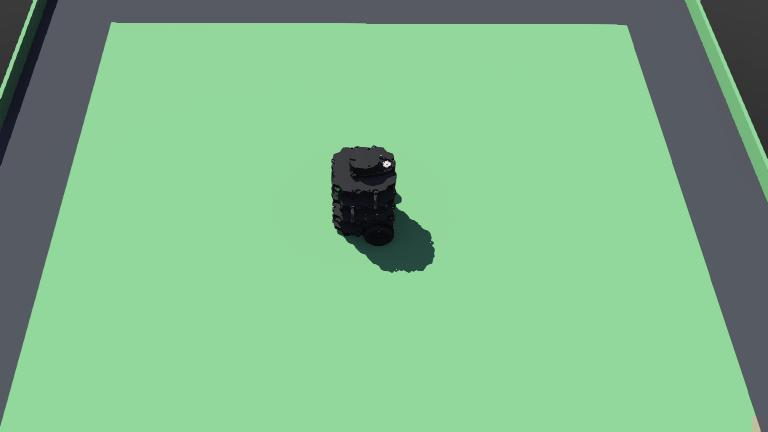
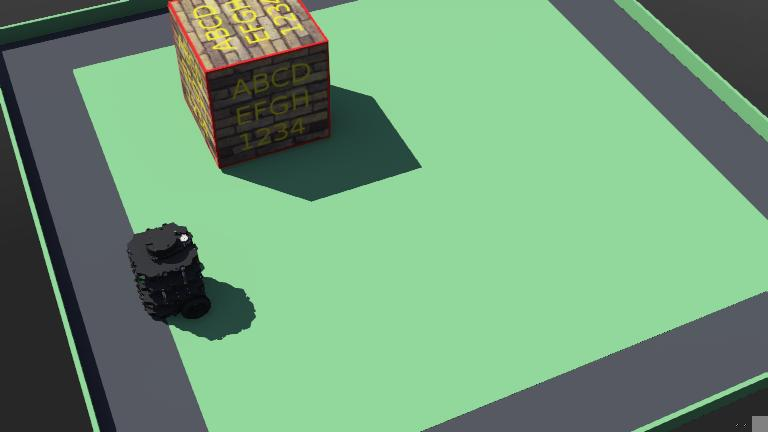
Obstacle avoidance simplistic

diff --git a/webots_project/controllers/main_controller/navigation.py b/webots_project/controllers/main_controller/navigation.py
@@ -16,6 +16,12 @@ class Navigation:
         self.left_motor = robot.getDevice('left wheel motor')
         self.right_motor = robot.getDevice('right wheel motor')
         
+        # Get Lidar
+        self.lidar = robot.getDevice('LDS-01')
+        self.lidar.enable(timestep)
+        self.lidar_max = self.lidar.getMaxRange()
+        self.lidar_width = self.lidar.getHorizontalResolution()
+        
         # Set velocity
         self.left_motor.setPosition(float('inf'))
         self.right_motor.setPosition(float('inf'))
@@ -38,13 +44,28 @@ class Navigation:
         self.theta = 0.0
         
         # Controller values
-        #self.k_rho = 0.2
         self.k_rho = 5.0
         self.k_alpha = 10
         self.k_beta = -0.05
         
         # Motor limits
         self.max_speed = 6.28
+        
+        # Set goal and start position
+        self.goal = (0.5, 0.5)
+        self.start = (0.0, 0.0)
+        
+        # M-line equation
+        xs, ys = self.start
+        xg, yg = self.goal
+        self.a = ys - yg
+        self.b = xg - xs
+        self.c = xs *yg - xg * ys
+        self.mline_tolerance = 0.05 #Parameter for how far from line
+        
+        self.state = "GO_TO_GOAL"
+        self.hit_point = None
+        self.obs_threshold = 0.25
         
         print("init complete")
         
@@ -54,15 +75,19 @@ class Navigation:
         left_angle = self.left_sensor.getValue()
         right_angle = self.right_sensor.getValue()
         
+        # Compute wheel displacements
         dl = (left_angle - self.prev_left_angle) * WHEEL_RADIUS
         dr = (right_angle - self.prev_right_angle) *WHEEL_RADIUS
         
+        # Store current angles for next step
         self.prev_left_angle = left_angle
         self.prev_right_angle = right_angle
                
+        # Compute linear and angular displacement
         dc = (dl + dr) / 2.0
         dtheta = (dr - dl) / AXLE_LENGTH
         
+        # Update pose
         self.x += dc * math.cos(self.theta + dtheta / 2.0)
         self.y += dc * math.sin(self.theta + dtheta / 2.0)
         self.theta += dtheta
@@ -94,13 +119,101 @@ class Navigation:
         
         return v_left, v_right, rho 
     
+    def on_mline(self):
+        distance_to_line = abs(self.a*self.x + self.b*self.y + self.c)
+        return distance_to_line < self.mline_tolerance
+    
+    def obstacle_detected(self):
+        # Get lidar distance values
+        ranges = self.lidar.getRangeImage()
+        
+        # Get central region
+        one_third = int(self.lidar_width / 3)
+        two_third = int(2 * self.lidar_width / 3)
+        
+        # Get lidar values from this region
+        center_ranges = []
+        for i in range(one_third, two_third):
+            center_ranges.append(ranges[i])
+            
+        # Find the closest detected object in the central region
+        closest_distance = min(center_ranges)
+        
+        # If it's closer than the threshold, its an obstacle
+        if closest_distance < self.obs_threshold:
+            return True
+        else:
+            return False
+        
+    def wall_follow(self):
+        # Get lidar distance values from full 360
+        ranges = self.lidar.getRangeImage()
+        midpoint = int(self.lidar_width / 2)
+        
+        # Split ranges into halves
+        left_range = []
+        for i in range(0, midpoint):
+            left_range.append(ranges[i])
+        
+        right_range = []
+        for i in range(midpoint, self.lidar_width):
+            right_range.append(ranges[i])
+            
+        # Find closest object on each side
+        closest_left = min(left_range)
+        closest_right = min(right_range)
+        
+        # Decide where to turn 
+        if closest_left < closest_right:
+            # Obstacle is closer on left so turn right 
+            return 3.0, 1.5
+        else:
+            # Obstacle is closer on right so turn left
+            return 1.5, 3.0
+     
+    def distance_to_goal(self):
+        goal_x, goal_y = self.goal
+        
+        dx = goal_x - self.x
+        dy = goal_y - self.y
+        return math.sqrt(dx*dx + dy*dy)
+    
     def move(self):    
         #Update pose
         self.update_odometry()
         
-        v_left, v_right, rpho = self.goto_position(0.2,0.2)
+        if self.state == "GO_TO_GOAL":
+            # If obstacle appears ahead, switch to wall follow state
+            if self.obstacle_detected():
+                self.state = "WALL_FOLLOW"
+                self.hit_point = (self.x, self.y)
+                print("Hit obstacle -> WALL_FOLLOW")
+                v_left, v_right = self.wall_follow()
+            else:
+                # Continue towards goal
+                v_left, v_right, rpho = self.goto_position(*self.goal)
         
+        elif self.state == "WALL_FOLLOW":
+            # Compute distance from hit point to goal
+            if self.hit_point is not None:
+                hit_x, hit_y = self.hit_point
+                dx_hit = self.goal[0] - hit_x
+                dy_hit = self.goal[1] - hit_y
+                distance_hit_to_goal = math.sqrt(dx_hit*dx_hit + dy_hit*dy_hit)
+            else:
+                distance_hit_to_goal = float('inf')
+                
+            # Check is robot is on M-line and closer to the goal
+            if self.on_mline() and self.distance_to_goal() < distance_hit_to_goal:
+                print("Back on M-line -> GO_TO_GOAL")
+                self.state = "GO_TO_GOAL"
+                v_left, v_right, rpho = self.goto_position(*self.goal)
+            else:
+                # Continue to follow obstacle
+                v_left, v_right = self.wall_follow()
+        
+        # Set speed
         self.left_motor.setVelocity(v_left)
         self.right_motor.setVelocity(v_right)
         
-        print(f"Position -> x: {self.x:.3f}, y: {self.y:.3f}, theta: {self.theta:.3f}")
+        print(f"[{self.state}] x={self.x:.3f}, y={self.y:.3f}, theta={self.theta:.3f}")
